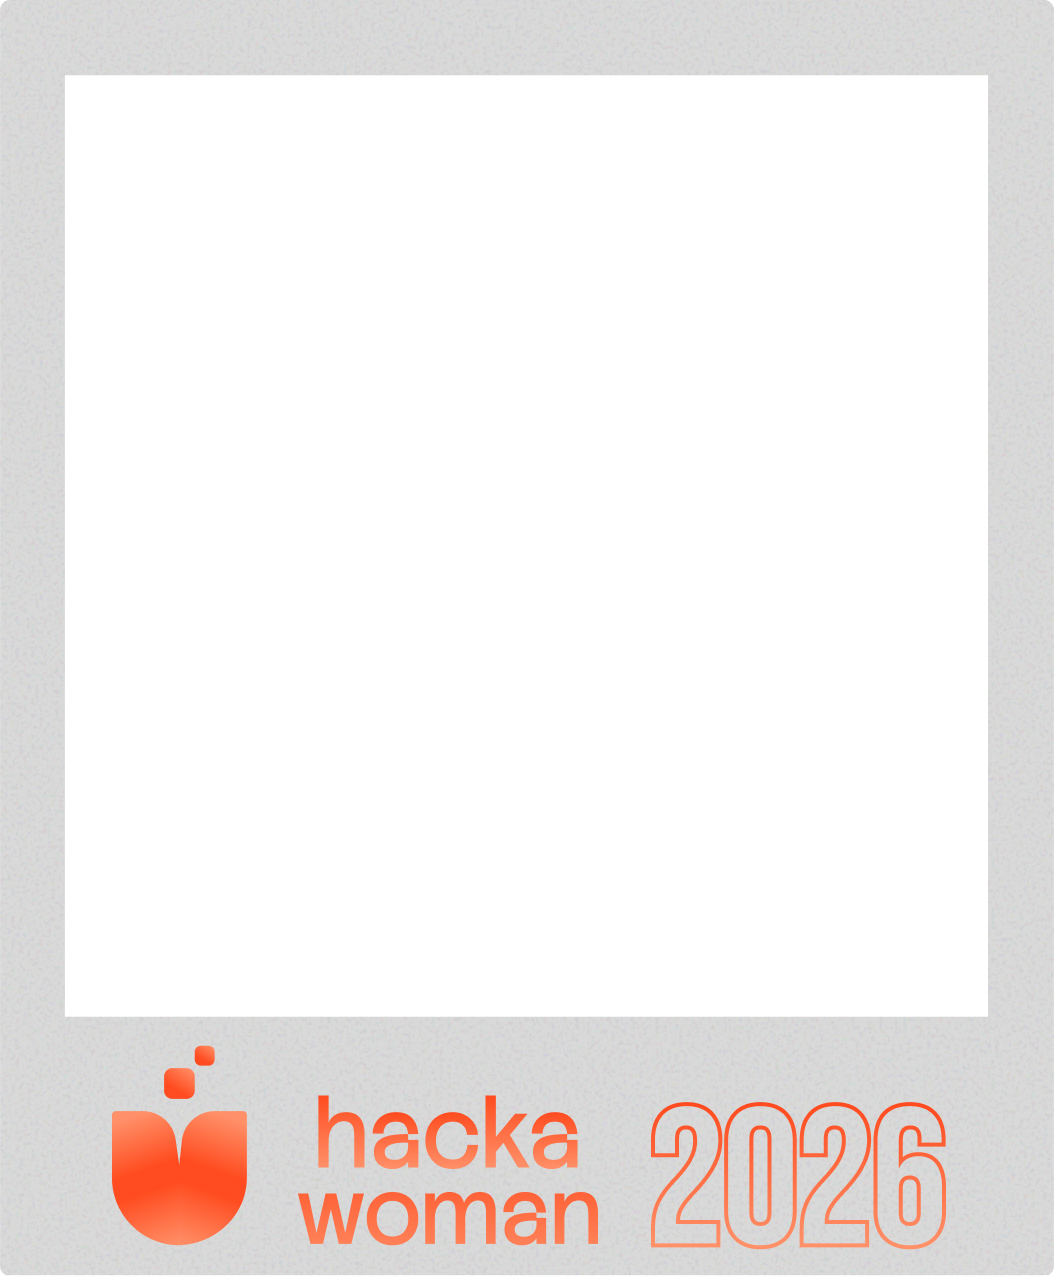
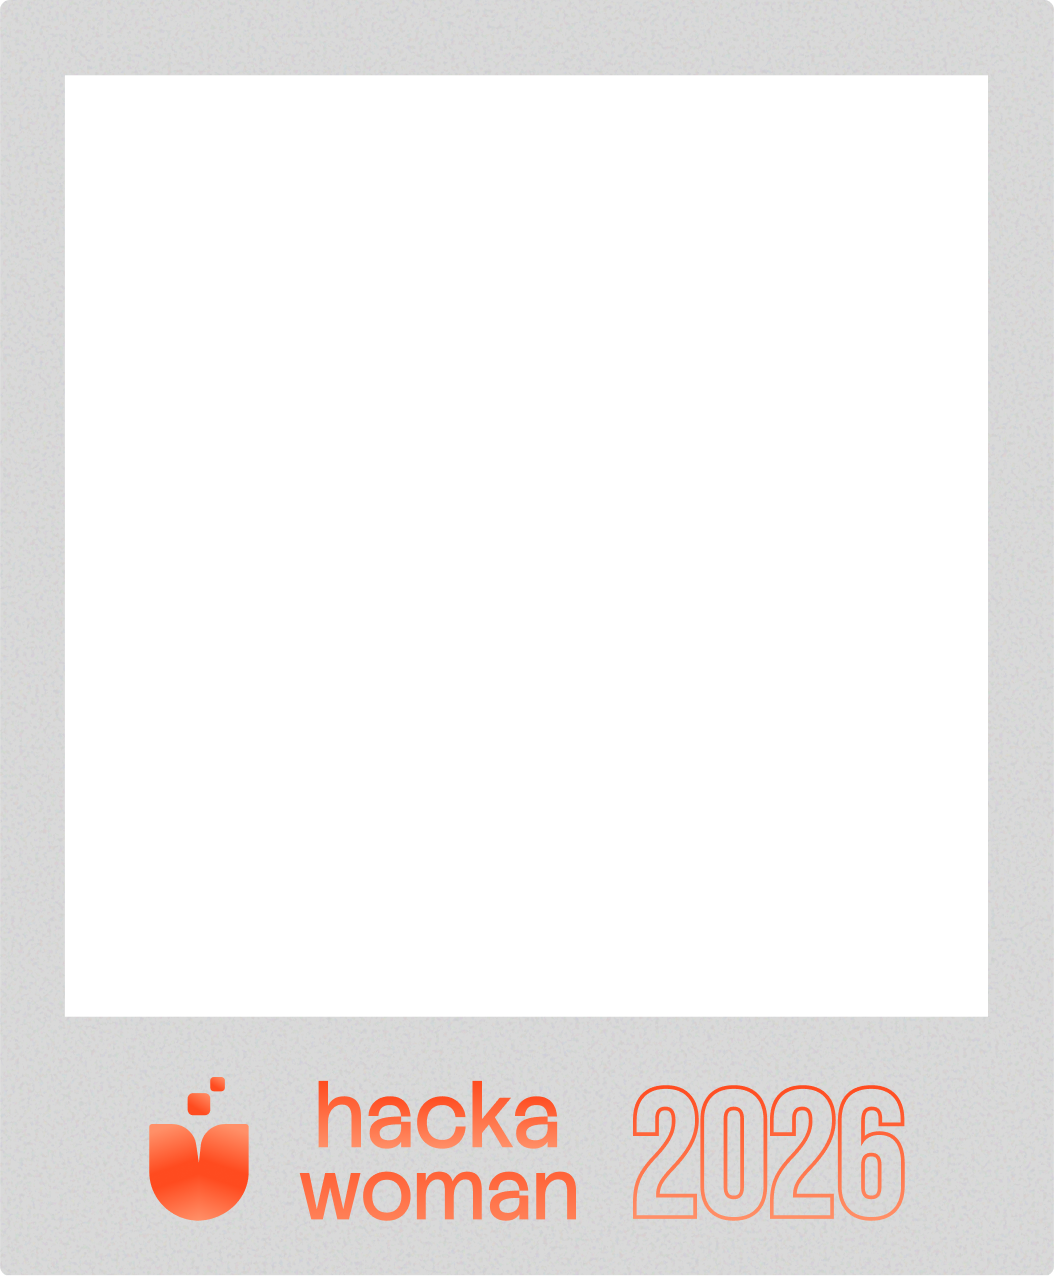
ajustando video para desktop

Changed region(s): [[0.2732, 0.8558, 0.9108, 0.9781], [0.0911, 0.7947, 0.2429, 0.9781]]

diff --git a/src/styles.css b/src/styles.css
@@ -703,11 +703,13 @@ a {
 .decor-hero-gray {
   top: 0;
   left: 0;
+  z-index: 9;
 }
 
 .decor-hero-gray-bottom {
   right: 0;
   bottom: 0;
+  z-index: 9;
 }
 
 .intro {
@@ -1325,7 +1327,7 @@ a {
 
 .photo-mosaic-item {
   position: absolute;
-  overflow: hidden;
+  overflow: visible;
   border: 5px solid #fff;
   box-shadow: 0 6px 28px rgba(0, 0, 0, 0.35);
   transform: rotate(var(--r, 0deg));
@@ -1340,11 +1342,42 @@ a {
   box-shadow: 0 16px 48px rgba(0, 0, 0, 0.5);
 }
 
-.photo-mosaic-item img {
+.photo-mosaic-img-wrap {
+  position: absolute;
+  inset: 0;
+  overflow: hidden;
+}
+
+.photo-mosaic-img-wrap img {
   display: block;
   width: 100%;
   height: 100%;
   object-fit: cover;
+}
+
+.mosaic-ver-foto {
+  position: absolute;
+  top: calc(100% + 10px);
+  left: 50%;
+  transform: translateX(-50%);
+  white-space: nowrap;
+  padding: 7px 18px;
+  background: var(--gradient-hero);
+  border: none;
+  border-radius: 999px;
+  color: #fff;
+  font-family: var(--font-body);
+  font-size: 12px;
+  font-weight: 700;
+  letter-spacing: 0.5px;
+  cursor: pointer;
+  box-shadow: 0 4px 14px rgba(0, 0, 0, 0.35);
+  animation: ver-foto-pop 0.22s cubic-bezier(0.22, 1, 0.36, 1) both;
+}
+
+@keyframes ver-foto-pop {
+  from { opacity: 0; transform: translateX(-50%) scale(0.8); }
+  to   { opacity: 1; transform: translateX(-50%) scale(1); }
 }
 
 /* ── Card exit keyframes ──────── */
@@ -2871,6 +2904,37 @@ span.button.cta-unavailable,
 /* ===== HERO INTRO ANIMATION ===== */
 
 /* Texto laranja com efeito de digitação */
+/* Foto com blur atrás do vídeo — desktop only */
+.hero-intro-bg {
+  position: absolute;
+  inset: 0;
+  z-index: 8;
+  overflow: hidden;
+  border-top-right-radius: clamp(190px, 22vw, 360px);
+  border-bottom-left-radius: clamp(180px, 30vw, 520px);
+  opacity: 0;
+  transition: opacity 0.8s ease;
+  pointer-events: none;
+}
+
+.hero-intro-bg-p2,
+.hero-intro-bg-p3 {
+  opacity: 1;
+}
+
+.hero-intro-bg img {
+  display: block;
+  width: 100%;
+  height: 100%;
+  object-fit: cover;
+  filter: blur(18px);
+  transform: scale(1.06);
+}
+
+@media (max-width: 768px) {
+  .hero-intro-bg { display: none; }
+}
+
 .hero-intro-text {
   position: absolute;
   inset: 0;
@@ -2935,16 +2999,25 @@ span.button.cta-unavailable,
     border-bottom-left-radius 1.2s ease;
 }
 
-/* Fase 2: cresce para o tamanho do vídeo — bordas menores, stroke gradiente roxo */
+/* Fase 2: cresce para o tamanho do vídeo */
 .hero-intro-p2 {
-  width: min(700px, 85vw);
-  height: min(820px, 95vh);
-  border-width: 5px;
-  border-top-right-radius: 48px;
-  border-bottom-left-radius: 48px;
-  background:
-    var(--gradient-hero) padding-box,
-    linear-gradient(205deg, #8b2fc9 0%, #5a1391 50%, #371a33 100%) border-box;
+  width: min(596px, 75vw);
+  height: 91vh;
+  border-width: 0;
+  border-top-right-radius: 72px;
+  border-bottom-left-radius: 72px;
+  background: var(--gradient-hero);
+}
+
+@media (max-width: 768px) {
+  .hero-intro-p2 {
+    width: 100vw;
+    height: 100vh;
+    border-radius: 0;
+    border-top-right-radius: 0;
+    border-bottom-left-radius: 0;
+    border-width: 0;
+  }
 }
 
 /* Fase 3: expande para preencher a hero inteira */
@@ -2959,12 +3032,18 @@ span.button.cta-unavailable,
   width: 100%;
   height: 100%;
   object-fit: cover;
+  transition: opacity 0.5s ease;
+}
+
+.hero-intro-p3 .hero-intro-video {
+  opacity: 0;
 }
 
 .hero-intro-skip {
   position: absolute;
   bottom: 16px;
   right: 20px;
+  z-index: 20;
   background: rgba(255, 255, 255, 0.12);
   border: 1px solid rgba(255, 255, 255, 0.3);
   border-radius: 999px;
@@ -2977,6 +3056,18 @@ span.button.cta-unavailable,
   cursor: pointer;
   backdrop-filter: blur(8px);
   transition: background 0.2s ease, color 0.2s ease;
+}
+
+@media (max-width: 768px) {
+  .hero-intro-skip {
+    bottom: 56px;
+    right: 20px;
+    transform: none;
+    font-size: 12px;
+    padding: 10px 26px;
+    background: rgba(0, 0, 0, 0.45);
+    border-color: rgba(255, 255, 255, 0.5);
+  }
 }
 
 .hero-intro-skip:hover {

diff --git a/src/App.tsx b/src/App.tsx
@@ -251,6 +251,9 @@ function HeroIntro({ onComplete }: { onComplete: () => void }) {
           </span>
         ))}
       </p>
+      <div className={`hero-intro-bg hero-intro-bg-p${phase}`} aria-hidden="true">
+        <img src="/hero-bg/photo.jpeg" alt="" />
+      </div>
       <div className={`hero-intro hero-intro-p${phase}`} aria-hidden="true">
         <video
           ref={videoRef}
@@ -392,9 +395,9 @@ function PhotoMosaic({ photos }: { photos: GalleryPhoto[] }) {
   const [visible, setVisible] = useState(() => pickRandom(photos, slotCount));
   const [anim, setAnim] = useState<'idle' | 'out' | 'in'>('idle');
   const [openedPhoto, setOpenedPhoto] = useState<GalleryPhoto | null>(null);
+  const [selectedSrc, setSelectedSrc] = useState<string | null>(null);
   const animRef = useRef<'idle' | 'out' | 'in'>('idle');
   const photosRef = useRef(photos);
-  const lastTapRef = useRef<{ src: string; time: number } | null>(null);
   useEffect(() => { photosRef.current = photos; }, [photos]);
 
   const slotCountRef = useRef(slotCount);
@@ -408,6 +411,7 @@ function PhotoMosaic({ photos }: { photos: GalleryPhoto[] }) {
     if (animRef.current !== 'idle') return;
     animRef.current = 'out';
     setAnim('out');
+    setSelectedSrc(null);
     setTimeout(() => {
       setVisible(pickRandom(photosRef.current, slotCountRef.current));
       animRef.current = 'in';
@@ -422,15 +426,6 @@ function PhotoMosaic({ photos }: { photos: GalleryPhoto[] }) {
     return () => clearInterval(t);
   }, [shuffle, photos.length, slotCount]);
 
-  const handleTouchEnd = useCallback((photo: GalleryPhoto) => (e: React.TouchEvent) => {
-    const now = Date.now();
-    if (lastTapRef.current?.src === photo.src && now - lastTapRef.current.time < 350) {
-      e.preventDefault();
-      setOpenedPhoto(photo);
-    }
-    lastTapRef.current = { src: photo.src, time: now };
-  }, []);
-
   if (photos.length === 0) return <div className="photo-mosaic photo-mosaic-empty" />;
 
   return (
@@ -438,6 +433,7 @@ function PhotoMosaic({ photos }: { photos: GalleryPhoto[] }) {
       <div className={`photo-mosaic${anim !== 'idle' ? ` photo-mosaic-${anim}` : ''}`}>
         {visible.map((photo, i) => {
           const s = slots[i];
+          const isSelected = isMobile && selectedSrc === photo.src;
           return (
             <div
               key={photo.src}
@@ -445,13 +441,23 @@ function PhotoMosaic({ photos }: { photos: GalleryPhoto[] }) {
               style={{
                 '--r': s.rotate,
                 left: s.left, top: s.top, width: s.width,
-                aspectRatio: s.aspect, zIndex: s.z,
+                aspectRatio: s.aspect, zIndex: isSelected ? 25 : s.z,
                 animationDelay: anim === 'out' ? `${i * 45}ms` : `${i * 55}ms`,
               } as React.CSSProperties}
               onClick={!isMobile ? () => setOpenedPhoto(photo) : undefined}
-              onTouchEnd={isMobile ? handleTouchEnd(photo) : undefined}
+              onTouchEnd={isMobile ? () => setSelectedSrc(photo.src) : undefined}
             >
-              <img src={photo.src} alt={photo.alt} loading="lazy" />
+              <div className="photo-mosaic-img-wrap">
+                <img src={photo.src} alt={photo.alt} loading="lazy" />
+              </div>
+              {isSelected && (
+                <button
+                  className="mosaic-ver-foto"
+                  onClick={() => { setOpenedPhoto(photo); setSelectedSrc(null); }}
+                >
+                  Ver foto
+                </button>
+              )}
             </div>
           );
         })}
@@ -581,11 +587,6 @@ function AgendaBlock({ day }: { day: AgendaDay }) {
           <a className="agenda-drive-link" href={day.driveUrl} target="_blank" rel="noreferrer">
             Acessar Drive
           </a>
-          {day.photos.length > 0 && (
-            <button className="agenda-see-all" onClick={() => setIsModalOpen(true)}>
-              Ver todas
-            </button>
-          )}
         </div>
       </div>
       {isModalOpen && <PhotoModal photos={day.photos} onClose={() => setIsModalOpen(false)} />}
@@ -797,9 +798,9 @@ function App() {
           <a className="edital-link" href="/edital.pdf" target="_blank" rel="noreferrer">
             Acessar edital
           </a>
-          <a className="nav-cta" href="#resultados">
+          {/* <a className="nav-cta" href="#resultados">
             <span>Ver ganhadoras</span>
-          </a>
+          </a> */}
         </div>
       </header>
 